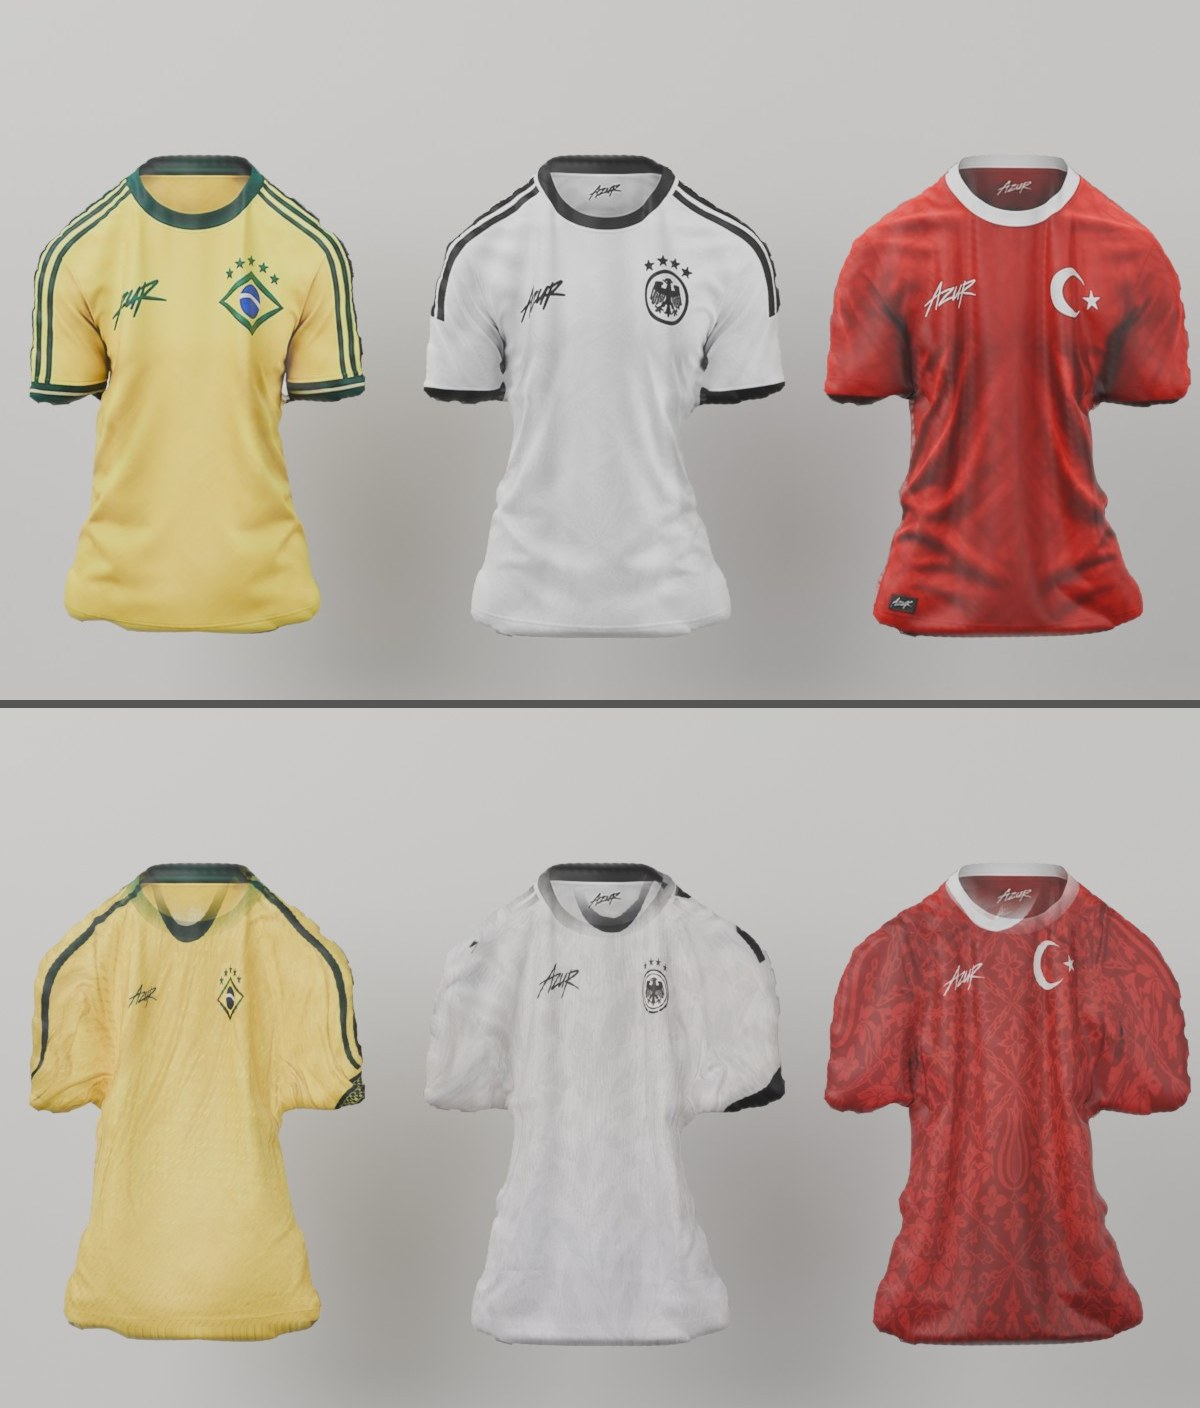
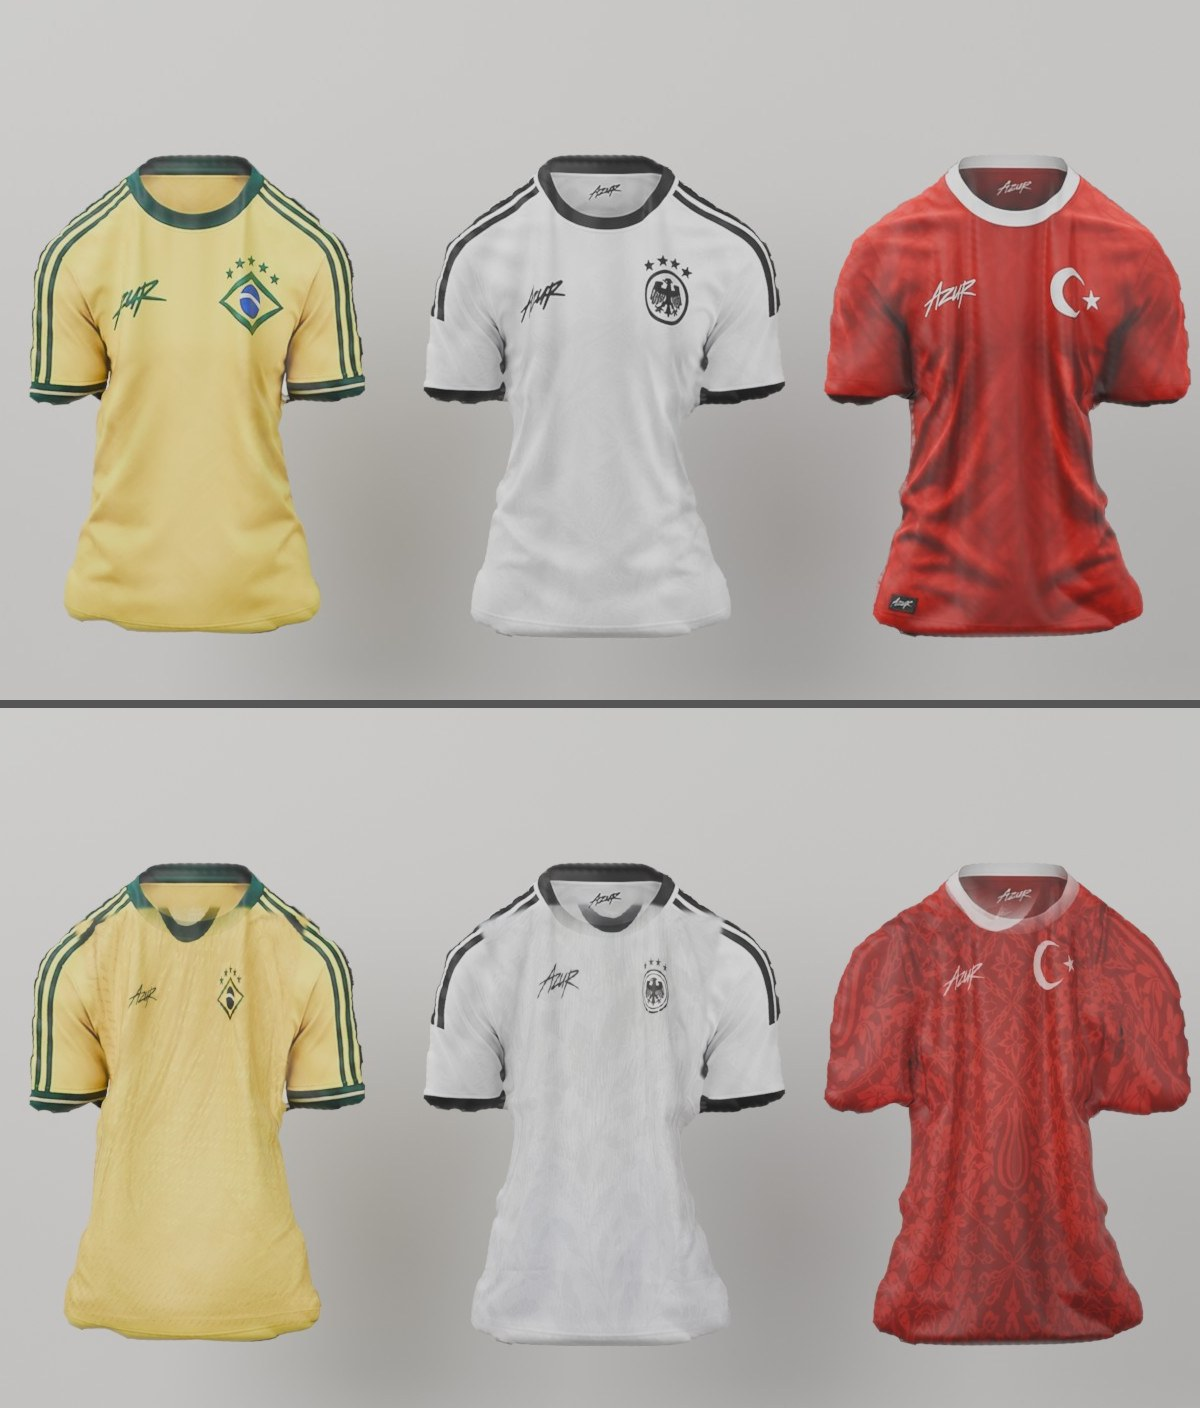
Echte Trikots: Ärmel von Brasilien/Deutschland aus dem Shopbild, Helligkeit des Fotos an das Shopbild angeglichen
Claude-Session: https://claude.ai/code/session_01R3wWJYBEPWenzksQTM89FE

diff --git a/azur/tools/photo_warp.py b/azur/tools/photo_warp.py
@@ -87,7 +87,10 @@ def landmarks(alpha):
     return np.vstack([P, inner])
 
 
-def warp(src_rgba, dst_rgba):
+SHOP_SLEEVES = {'brasilien', 'deutschland'}   # printed stripes and cuffs: the shop image's sleeves are cleaner than bent photo
+
+
+def warp(src_rgba, dst_rgba, shop_sleeves=False):
     src, dst = np.asarray(src_rgba), np.asarray(dst_rgba)
     ps, pd = landmarks(src[..., 3]), landmarks(dst[..., 3])
     H, W = dst.shape[:2]
@@ -104,12 +107,26 @@ def warp(src_rgba, dst_rgba):
     _, idx = ndimage.distance_transform_edt(a, return_indices=True)
     filled = src[..., :3][idx[0], idx[1]]
     rgb = cv2.remap(filled, mx, my, cv2.INTER_CUBIC, borderMode=cv2.BORDER_REPLICATE)
+    # brightness and colour of the bent photo matched to the shop image over the body's middle, so the parts taken from
+    # the shop image (collar, sleeves) meet it without an edge (the photos were taken in a dim, warm room)
+    body_mid = (dst[..., 3] > 200)
+    y_s, x_s = np.nonzero(body_mid); ry = np.percentile(y_s, [45, 80]).astype(int); rx = np.percentile(x_s, [35, 65]).astype(int)
+    pm = np.median(rgb[ry[0]:ry[1], rx[0]:rx[1]].reshape(-1, 3).astype(np.float32), 0)
+    dm = np.median(dst[ry[0]:ry[1], rx[0]:rx[1], :3].reshape(-1, 3).astype(np.float32), 0)
+    rgb = np.clip(rgb.astype(np.float32) * np.clip((dm + 1) / (pm + 1), 0.8, 1.45), 0, 255)
     # the collar stays the shop image's: it shows the collar in 3D (with its inside), the flat photo cannot; the design
     # is the same. An ellipse around the neck, feathered.
     hl, hr, nc = pd[13], pd[14], pd[0]
     bw = hr[0] - hl[0]; ys = np.nonzero(dst[..., 3] > 128)[0]; hh = ys.max() - ys.min()
     ex, ey = bw * 0.26, hh * 0.11
     k = np.clip(1.6 - np.sqrt(((gx - nc[0]) / ex) ** 2 + ((gy - nc[1]) / ey) ** 2), 0, 1)[..., None] ** 1.5
+    if shop_sleeves:
+        # the sleeves (outside the body: shoulder - armpit - hem on each side) from the shop image as well
+        body = np.array([pd[3], pd[11], pd[13], pd[14], pd[12], pd[4]], np.int32)
+        bm = np.zeros((H, W), np.uint8); cv2.fillPoly(bm, [body], 1)
+        bm = cv2.dilate(bm, np.ones((5, 5), np.uint8))
+        sl = cv2.GaussianBlur((1 - bm).astype(np.float32), (0, 0), 4)[..., None]
+        k = np.maximum(k, sl)
     rgb = (rgb * (1 - k) + dst[..., :3] * k).astype(np.uint8)
     out = np.dstack([rgb, dst[..., 3]])
     return Image.fromarray(out, 'RGBA'), ps, pd
@@ -128,7 +145,7 @@ def main(keys):
         for side in ('vorne', 'hinten'):
             src = Image.open(os.path.join(HERE, 'assets', 'jerseys', 'real', f'{k}-{side}.webp')).convert('RGBA')
             dst = Image.open(os.path.join(HERE, 'assets', 'jerseys', 'back', f'{k}-{side}-v2.webp')).convert('RGBA')
-            out, ps, pd = warp(src, dst)
+            out, ps, pd = warp(src, dst, k in SHOP_SLEEVES)
             out.save(os.path.join(HERE, 'assets', 'jerseys', 'real', f'{k}-{side}-fit.webp'), quality=92)
             a, b = dots(src, ps, (0, 0, 255)), dots(dst, pd, (255, 0, 0))
             hh = 700; a = cv2.resize(a, (round(a.shape[1] * hh / a.shape[0]), hh)); b = cv2.resize(b, (round(b.shape[1] * hh / b.shape[0]), hh))
